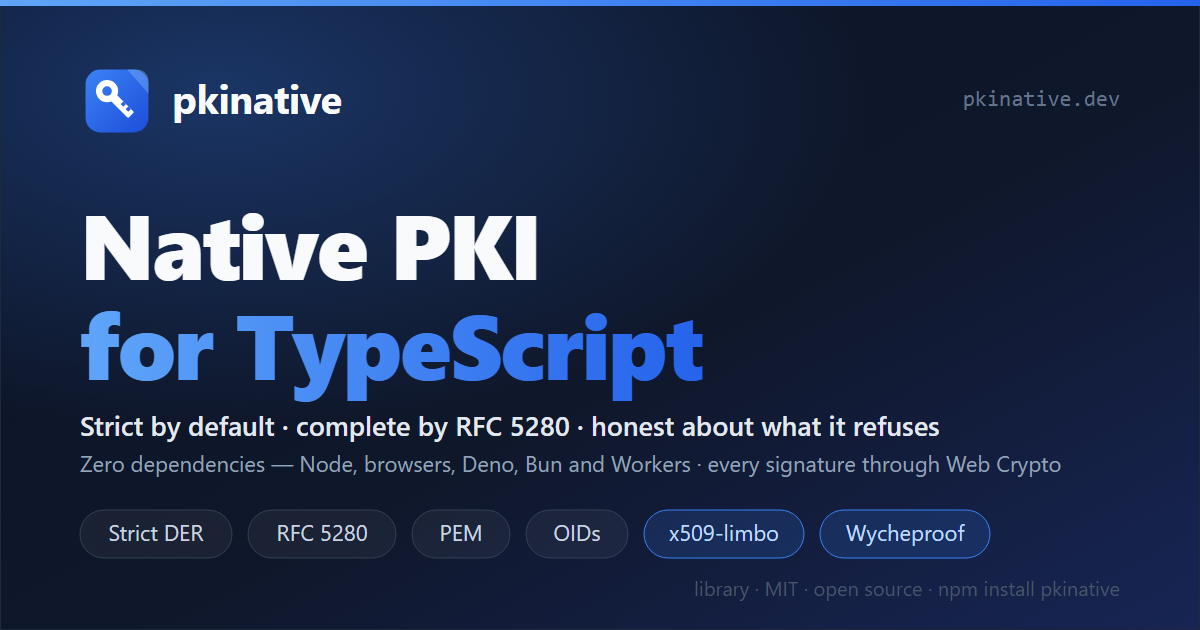
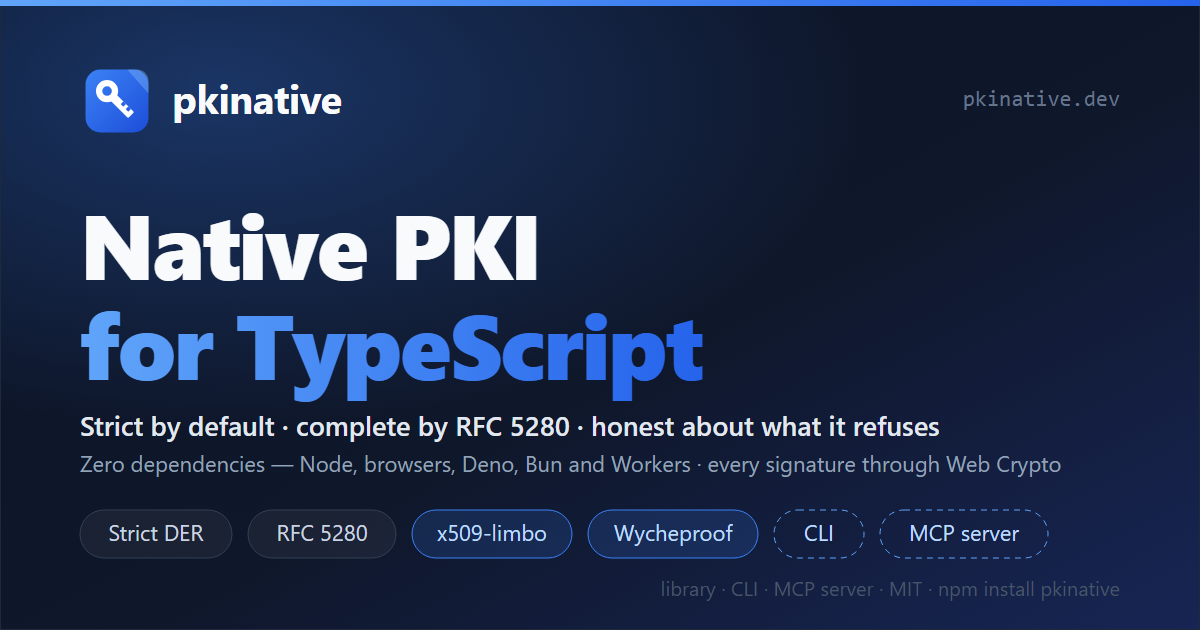
docs(assets): the satellites in the architecture diagram and on the social cards
- architecture.svg, drawn from LAYERS, gains a band above src/index.ts:
  pkinative-cli and pkinative-mcp as dashed consumers of the one entry
  point, 'separate packages, pinning pkinative ^1.0.0 from npm'; the
  description (the landing image's alt) says so too.
- og-image and social-preview trade the PEM and OIDs pills for dashed CLI
  and MCP server pills and name both in their footer line; re-rasterised
  with headless Edge, SVG hashes recorded for social-images.

Changed region(s): [[0.3392, 0.7841, 0.8633, 0.9651]]

diff --git a/scripts/build-guides.ts b/scripts/build-guides.ts
@@ -499,6 +499,12 @@ const ARCHITECTURE_PLACES: Readonly<Record<string, readonly [row: number, column
     types: [7, 3],
 };
 
+/**
+ * The satellites, drawn above the package as consumers of its one entry
+ * point: separate repositories that reach the engine only through npm.
+ */
+const CONSUMERS: ReadonlyArray<readonly [name: string, column: number]> = [['pkinative-cli', 2], ['pkinative-mcp', 4]];
+
 /** A layer's nearest dependencies: LAYERS without the imports another import already reaches. */
 export function nearestDependencies(layer: string): string[] {
     const reach = (from: string, seen = new Set<string>()): Set<string> => {
@@ -532,7 +538,8 @@ export function architectureDescription(): string {
     });
     const refused = REFUSED_IMPORTS.map(([from, to]) => `${listWords(from)} never ${from.length > 1 ? 'import' : 'imports'} ${to}`);
     return `The ${countWord(layers.length)} pkinative layers. src/index.ts imports every layer, and nothing imports it. ${sentences.join(' ')} `
-        + `Refused on purpose: ${refused.join('; ')}.`;
+        + `Refused on purpose: ${refused.join('; ')}. `
+        + `Outside the package, ${listWords(CONSUMERS.map(([name]) => name))} use only its public entry point, through npm.`;
 }
 
 /** docs/assets/architecture.svg, drawn from LAYERS. */
@@ -544,7 +551,8 @@ export function renderArchitectureSvg(): string {
     for (const [from, to] of REFUSED_IMPORTS) {
         for (const layer of from) if ((LAYERS[layer] ?? []).includes(to)) throw new Error(`build-guides: LAYERS lets ${layer} import ${to}, which AGENTS.md refuses`);
     }
-    const W = 116, H = 36, STEP = 64, TOP = 32;
+    // BAND is the row of consumers above src/index.ts.
+    const W = 116, H = 36, STEP = 64, BAND = 72, TOP = 32 + BAND;
     const x = (column: number): number => 90 + column * 130;
     const y = (row: number): number => TOP + row * STEP;
     const at = (layer: string): { cx: number; top: number; bottom: number; row: number } => {
@@ -586,6 +594,14 @@ export function renderArchitectureSvg(): string {
     const height = y(7) + H + 92;
     const refused = REFUSED_IMPORTS.map(([from, to]) => `${from.join(' or ')} to ${to}`).join(' · ');
     const oid = at('oid');
+    const entry = at('index');
+    const consumerTop = TOP - BAND + 4;
+    const consumers = CONSUMERS.map(([name, column]) => {
+        const cx = x(column);
+        return `  <rect class="box consumer" x="${cx - W / 2 - 8}" y="${consumerTop}" width="${W + 16}" height="${H}" rx="8"/>\n`
+            + `  <text class="consumer-label" x="${cx}" y="${consumerTop + 23}">${name}</text>\n`
+            + `  <path class="edge" d="M${cx} ${consumerTop + H}V${consumerTop + H + 14}H${entry.cx + (cx < entry.cx ? -20 : 20)}V${entry.top - 4}"/>`;
+    }).join('\n');
     return `<svg xmlns="http://www.w3.org/2000/svg" viewBox="0 0 960 ${height}" width="960" height="${height}" role="img" aria-labelledby="architecture-title architecture-desc">
   <!-- Generated by scripts/build-guides.ts from LAYERS (scripts/lib/architecture.ts); run npm run docs:guides, never edit by hand. -->
   <title id="architecture-title">pkinative layers</title>
@@ -598,6 +614,8 @@ export function renderArchitectureSvg(): string {
     .label { font: 600 16px -apple-system, BlinkMacSystemFont, 'Segoe UI', Roboto, 'Helvetica Neue', Arial, sans-serif; fill: #0f172a; text-anchor: middle; }
     .top-label { font: 600 16px -apple-system, BlinkMacSystemFont, 'Segoe UI', Roboto, 'Helvetica Neue', Arial, sans-serif; fill: #ffffff; text-anchor: middle; }
     .note { font: 14px -apple-system, BlinkMacSystemFont, 'Segoe UI', Roboto, 'Helvetica Neue', Arial, sans-serif; fill: #475569; }
+    .consumer { fill: #ffffff; stroke-dasharray: 5 4; }
+    .consumer-label { font: 600 15px -apple-system, BlinkMacSystemFont, 'Segoe UI', Roboto, 'Helvetica Neue', Arial, sans-serif; fill: #0f172a; text-anchor: middle; }
     .edge { stroke: #64748b; stroke-width: 1.5; fill: none; marker-end: url(#arrow); }
   </style>
   <defs>
@@ -607,7 +625,10 @@ export function renderArchitectureSvg(): string {
   </defs>
   <rect class="canvas" x="0.5" y="0.5" width="959" height="${height - 1}" rx="12"/>
 ${edges.map((e) => `  ${e}`).join('\n')}
+${consumers}
 ${boxes}
+  <text class="note" x="${x(5) - W / 2}" y="${consumerTop + 15}">separate packages, pinning</text>
+  <text class="note" x="${x(5) - W / 2}" y="${consumerTop + 33}">pkinative ^1.0.0 from npm</text>
   <text class="note" x="${oid.cx + W / 2 + 12}" y="${oid.top + 15}">imports nothing; only</text>
   <text class="note" x="${oid.cx + W / 2 + 12}" y="${oid.top + 33}">getOidName pulls it in</text>
   <text class="note" x="32" y="${height - 56}">Arrows point at each layer's nearest dependencies; AGENTS.md §Architecture lists every permitted import.</text>

diff --git a/docs/index.html b/docs/index.html
@@ -417,7 +417,7 @@ try {
       <p class="section-subtitle">Fourteen layers, every import pointing down — and seven imports refused on purpose.</p>
       <div class="arch-diagram">
         <a href="https://github.com/Nizoka/pkinative/tree/main/src" target="_blank" rel="noopener">
-          <img src="assets/architecture.svg" width="960" height="608" loading="lazy" alt="The fourteen pkinative layers. src/index.ts imports every layer, and nothing imports it. types imports nothing. core imports types. hash imports types and core. asn1 imports types and core. pem imports types and core. oid imports nothing. x509 imports types, core and asn1. crypto imports types, core and asn1. build imports types, core, asn1, hash and crypto. path imports types, core and x509. revocation imports types, core, asn1, hash, x509 and build. cms imports types, core, asn1, hash, x509 and build. keys imports types, core, asn1 and crypto. verify imports types, core, asn1, hash, x509, crypto, path, revocation, cms and keys. Refused on purpose: x509 never imports oid; pem never imports asn1; crypto and build never import x509; path and cms never import crypto; keys never imports x509.">
+          <img src="assets/architecture.svg" width="960" height="680" loading="lazy" alt="The fourteen pkinative layers. src/index.ts imports every layer, and nothing imports it. types imports nothing. core imports types. hash imports types and core. asn1 imports types and core. pem imports types and core. oid imports nothing. x509 imports types, core and asn1. crypto imports types, core and asn1. build imports types, core, asn1, hash and crypto. path imports types, core and x509. revocation imports types, core, asn1, hash, x509 and build. cms imports types, core, asn1, hash, x509 and build. keys imports types, core, asn1 and crypto. verify imports types, core, asn1, hash, x509, crypto, path, revocation, cms and keys. Refused on purpose: x509 never imports oid; pem never imports asn1; crypto and build never import x509; path and cms never import crypto; keys never imports x509. Outside the package, pkinative-cli and pkinative-mcp use only its public entry point, through npm.">
         </a>
       </div>
     </div>
